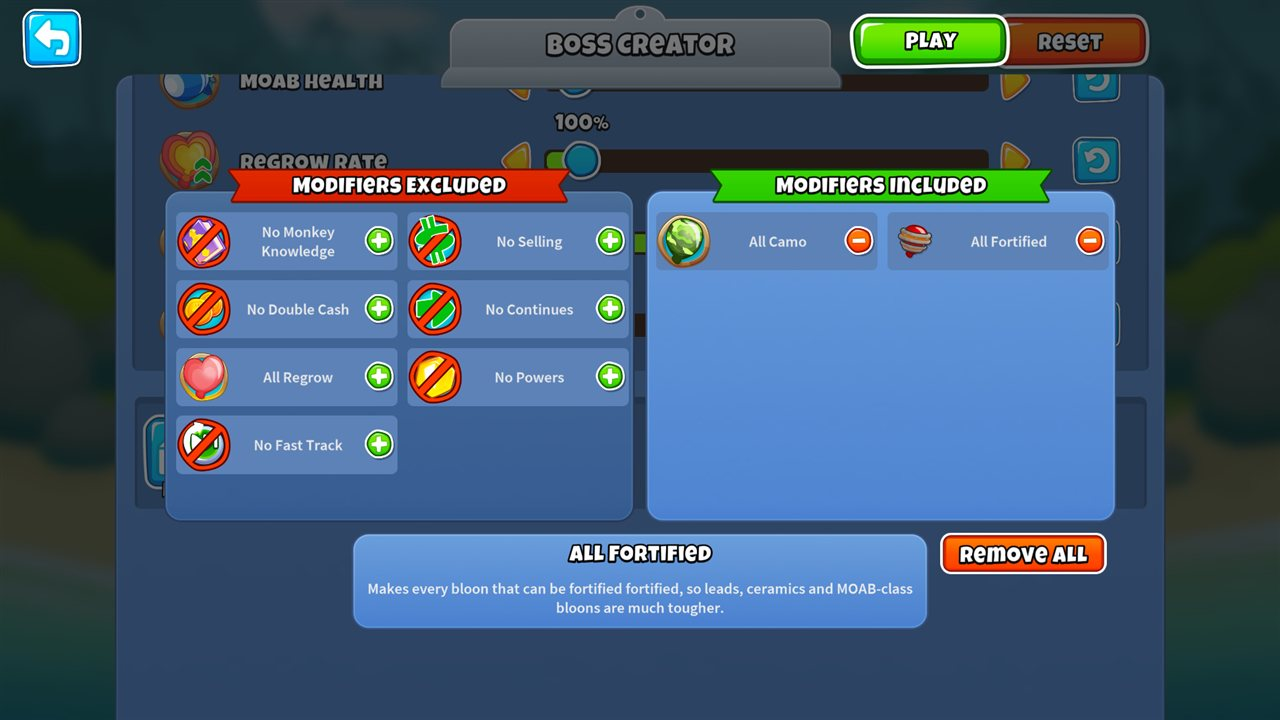
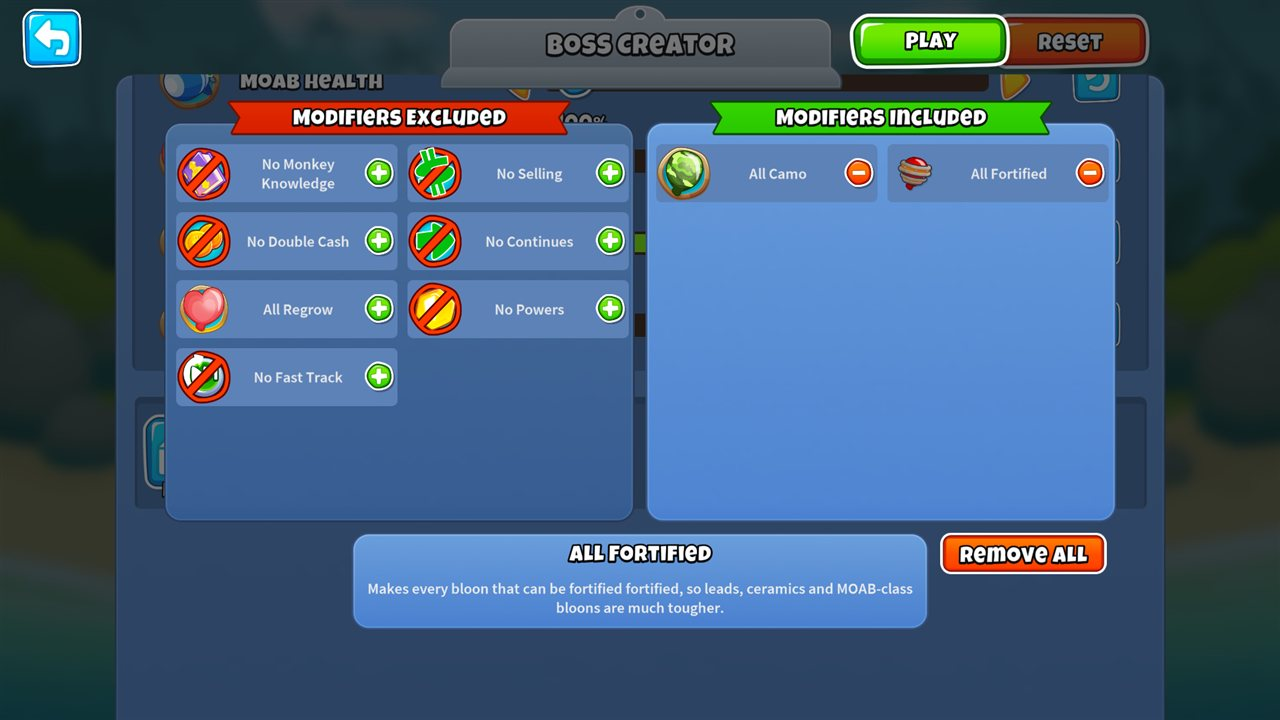
Grow the modifier panels by a row for All Fortified
The game sized the panels and their scroll area for its own eight modifiers, so the ninth row was cut off
and couldn't be scrolled to. In the Boss Creator both panels grow by a row upwards; they shrink back
exactly when the button is removed, so the normal editor keeps its size.

Changed region(s): [[0.125, 0.1222, 0.875, 0.6722], [0.3125, 0.3972, 0.5, 0.5806]]

diff --git a/Menus/FortifiedModifier.cs b/Menus/FortifiedModifier.cs
@@ -1,8 +1,11 @@
+using System;
+using System.Collections.Generic;
 using BTD_Mod_Helper.Api.Enums;
 using BTD_Mod_Helper.Extensions;
 using Il2CppAssets.Scripts.Models.ServerEvents;
 using Il2CppAssets.Scripts.Unity.UI_New.ChallengeEditor;
 using UnityEngine;
+using UnityEngine.UI;
 using Object = UnityEngine.Object;
 
 namespace CustomBossChallenge.Menus;
@@ -59,6 +62,7 @@ public static class FortifiedModifier
             button.SetValue(false);
         }
 
+        Enlarge(settings, true);
         if (dcm?.bloonModifiers != null) button.SetValue(dcm.bloonModifiers.allFortified);
         settings.FillMsbLists();
         settings.SetDisplayIcons();
@@ -76,6 +80,7 @@ public static class FortifiedModifier
         // Out of its container right away, so the game's lists don't pick it up before it is destroyed
         button.transform.SetParent(null, false);
         Object.Destroy(button.gameObject);
+        Enlarge(settings, false);
         settings.FillMsbLists();
         settings.SetDisplayIcons();
     }
@@ -98,5 +103,51 @@ public static class FortifiedModifier
         if (button == null) return;
         dcm.bloonModifiers ??= new BloonModifiers();
         dcm.bloonModifiers.allFortified = button.includeToggle.isOn;
+    }
+
+    private static readonly HashSet<IntPtr> Enlarged = new();
+
+    /// <summary>
+    /// How much taller the modifier panels are than the game makes them: one row while the button is there, so all
+    /// nine modifiers fit without scrolling
+    /// </summary>
+    public static float ExtraHeight(ChallengeEditorModifierSettings settings) =>
+        Enlarged.Contains(settings.Pointer) ? RowHeight(settings) : 0;
+
+    private static float RowHeight(ChallengeEditorModifierSettings settings)
+    {
+        var grid = settings.excludedContainer.GetComponent<GridLayoutGroup>();
+        return grid != null ? grid.cellSize.y + grid.spacing.y : 245;
+    }
+
+    /// <summary>
+    /// The game sized the panels and their scroll area for its own eight modifiers. Grows them by a row upwards (there
+    /// is no room below, where the info box is) or shrinks them back exactly, so the normal editor is unchanged.
+    /// </summary>
+    private static void Enlarge(ChallengeEditorModifierSettings settings, bool enlarge)
+    {
+        if (enlarge == Enlarged.Contains(settings.Pointer)) return;
+
+        var scrollContent = settings.excludedContainer.parent;
+        var scroll = scrollContent?.parent;
+        var panel = scroll?.parent;
+        if (scrollContent == null || scroll == null || panel == null) return;
+
+        var delta = RowHeight(settings) * (enlarge ? 1 : -1);
+        Grow(scroll, delta, delta);
+        Grow(scrollContent, delta, 0);
+        foreach (var name in new[] {"ExcludedBg", "IncludedBg"}) Grow(panel.Find(name), delta, delta / 2);
+        foreach (var name in new[] {"ExcludedBanner", "IncludedBanner"}) Grow(panel.Find(name), 0, delta);
+
+        if (enlarge) Enlarged.Add(settings.Pointer);
+        else Enlarged.Remove(settings.Pointer);
+    }
+
+    private static void Grow(Transform? transform, float height, float up)
+    {
+        var rect = transform?.GetComponent<RectTransform>();
+        if (rect == null) return;
+        rect.sizeDelta += new Vector2(0, height);
+        rect.anchoredPosition += new Vector2(0, up);
     }
 }

diff --git a/Tests/BossCreatorTests.cs b/Tests/BossCreatorTests.cs
@@ -98,6 +98,12 @@ public class BossCreatorTest : CustomBossTest
         }
         modifiers.OpenEditPopup();
         yield return new WaitForSecondsRealtime(1);
+        // The panels grow by a row, so all nine modifiers fit without scrolling
+        var scrollArea = modifiers.excludedContainer.parent.parent.GetComponent<RectTransform>();
+        var excludedSlots = modifiers.excludedContainer.GetComponent<RectTransform>();
+        Assert(FortifiedModifier.ExtraHeight(modifiers) > 0, "The modifier panels must grow");
+        Assert(scrollArea.rect.height >= excludedSlots.rect.height - 1,
+            $"All excluded modifiers must fit: area {scrollArea.rect.height}, modifiers {excludedSlots.rect.height}");
         fortified.Select();
         AssertEquals(modifiers.descriptionTitle.text, Texts.AllFortified.T(), "All Fortified info title");
         fortified.includeToggle.isOn = true;
@@ -320,6 +326,7 @@ public class BossCreatorTest : CustomBossTest
         var title = editor.transform.Find("TopInfo/Title")?.GetComponent<TMP_Text>();
         Assert(title == null || title.text != BossEditorSection.Title, "The normal Challenge Editor is titled Boss Creator");
         AssertEquals(FortifiedModifier.Find(FortifiedModifier.Settings(editor)), null, "The normal Challenge Editor has the All Fortified modifier");
+        AssertEquals(FortifiedModifier.ExtraHeight(FortifiedModifier.Settings(editor)!), 0f, "The normal editor's modifier panels must keep their size");
 
         MenuManager.instance.Back();
         yield return ToMainMenu();
